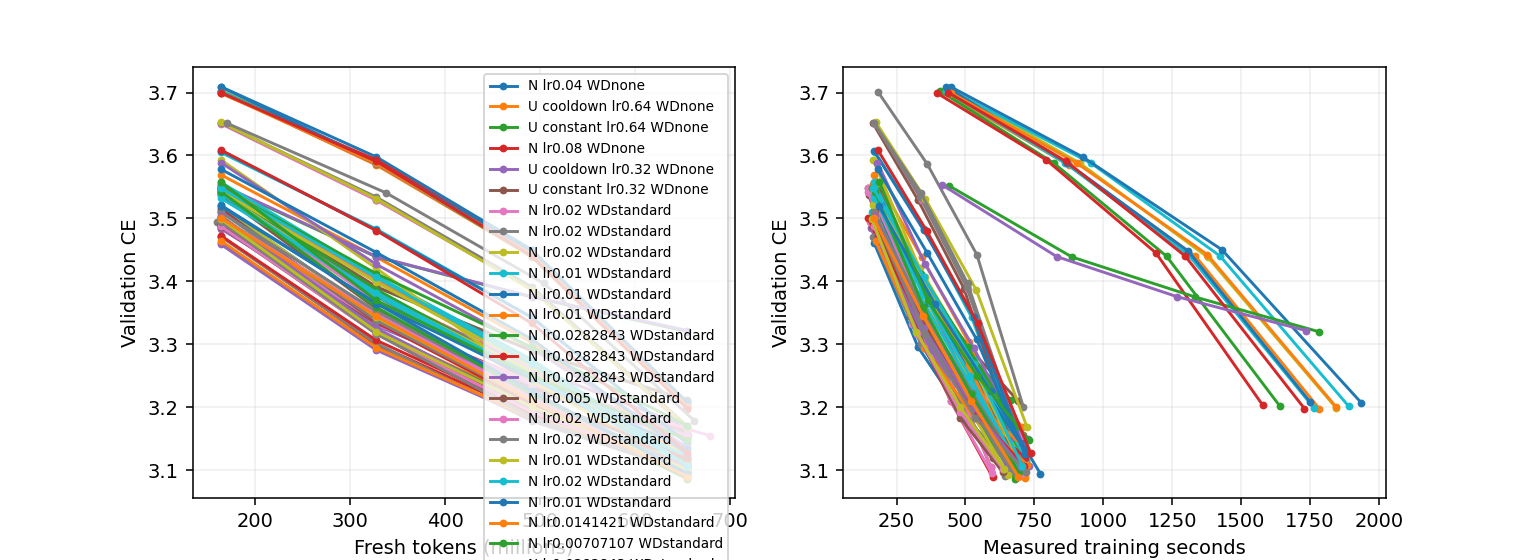
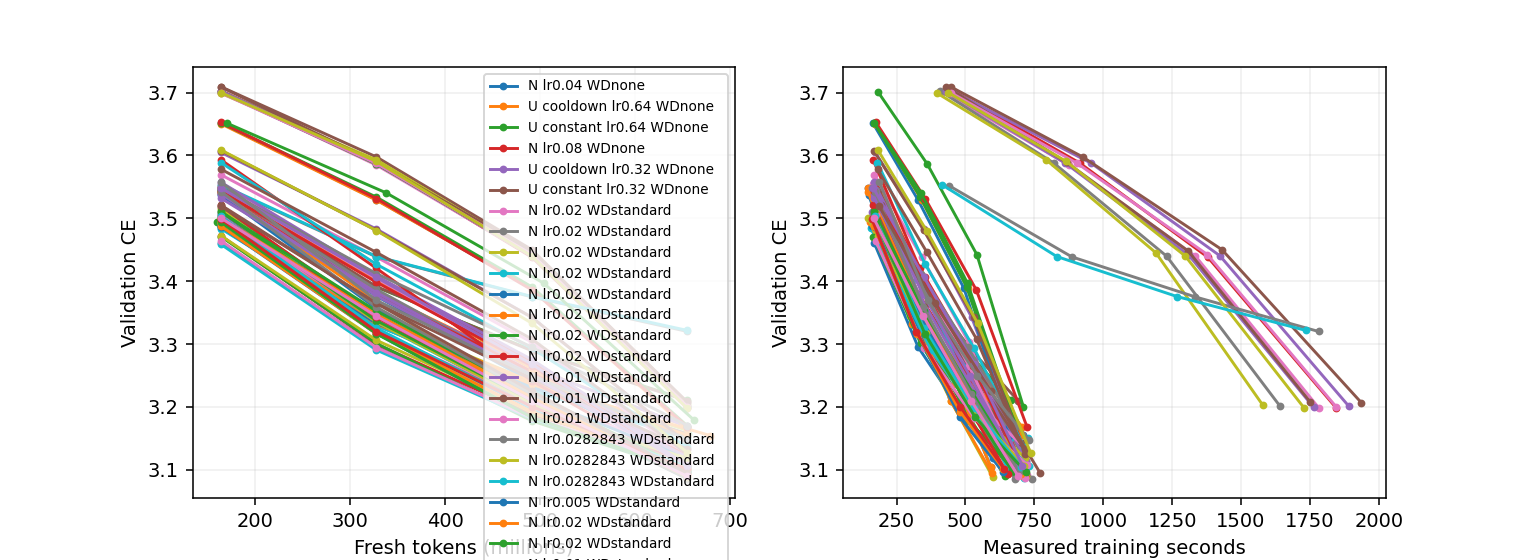
Update live Muon experiment results

diff --git a/research/unnormalized_muon/RESULTS.md b/research/unnormalized_muon/RESULTS.md
@@ -42,6 +42,9 @@ One B300 per job. CE is token cross-entropy (nats); lower is better. Rows with d
 | um-clean-long-1-1-cooldown-lr0p32 | Clean Unnormalized cooldown | 20000 | 0 | 0.32 | 3.168984 | 0.960728 | — | 754.69 |
 | um-clean-long-1-2-constant-lr0p32 | Clean Unnormalized constant | 20000 | 0 | 0.32 | 3.209921 | 0.973169 | — | 765.35 |
 | um-clean-long-2-fw-pilot | Clean FW backtracking momentum Rfactor2 smoothness eager | 2000 | 0 | 0.02 | 4.185817 | 1.268782 | — | 409.98 |
+| um-earlyalloc-confirm-baseline-s70 | Clean Native cooldown fixed_lambda=0.0459375 WD:standard(0) | 20000 | 70 | 0.02 | 3.091088 | 0.937149 | 3.132269 | 784.34 |
+| um-earlyalloc-confirm-baseline-s71 | Clean Native cooldown fixed_lambda=0.0459375 WD:standard(0) | 20000 | 71 | 0.02 | 3.085667 | 0.935485 | 3.126217 | 798.23 |
+| um-earlyalloc-confirm-early-s72 | Clean Native cooldown fixed_lambda=0.0459375 WD:standard(0) | 20000 | 72 | 0.02 | 3.097495 | 0.939100 | 3.138992 | 758.31 |
 | um-earlyalloc-screen-k1 | Clean Native cooldown fixed_lambda=0.0459375 WD:standard(0) | 20000 | 0 | 0.02 | 3.090448 | 0.936955 | — | 783.18 |
 | um-earlyalloc-screen-k1p5 | Clean Native cooldown fixed_lambda=0.0459375 WD:standard(0) | 20000 | 0 | 0.02 | 3.089904 | 0.936790 | — | 701.43 |
 | um-earlyalloc-screen-k2 | Clean Native cooldown fixed_lambda=0.0459375 WD:standard(0) | 20000 | 0 | 0.02 | 3.089891 | 0.936781 | — | 790.30 |
@@ -263,7 +266,7 @@ One B300 per job. CE is token cross-entropy (nats); lower is better. Rows with d
 
 Review of um-fw-diagnostic-001: Compiled training f0 compared against functional candidate losses; vanishing-step mismatch2-4e-5 exceeded tolerance, leading to curvature1e186 and45 skipped steps. Replaced by paired functional reference and candidates; retain all645 measured forwards and GPUcost.
 
-Conservative charged/reserved total: 37.7225 / 50 B300 GPU-hours. Includes prior smoke/failed attempts and current maximum-duration reservations. Six-slot central queue; one B300 per run.
+Conservative charged/reserved total: 39.6542 / 50 B300 GPU-hours. Includes prior smoke/failed attempts and current maximum-duration reservations. Six-slot central queue; one B300 per run.
 
 CLEAN geometry disables row equilibration and NorMuon. Original clean runs use zero matrix decay; new WD runs explicitly label standard or cautious decay and their CLI coefficient. Same five Polar Express steps and Frobenius correction; scale by the per-matrix nonnegative FP32 inner product of the native Nesterov input with the NS/Frobenius direction. Shape scaling occurs once outside the scalar. Legacy rows retain production extras and must be compared separately. Constant schedule changes only matrix LR; auxiliary schedules and momentum remain matched.
 

diff --git a/research/unnormalized_muon/DETAILED_EVAL.md b/research/unnormalized_muon/DETAILED_EVAL.md
@@ -12,6 +12,11 @@ All results use the B300 fork model/data/tokenizer and a fixed tuning-validation
 | normalized WD none 0 | 0.08 | 20000 | 3.112453 | 680.91 | 755.24 |
 | unnormalized cooldown WD none 0 | 0.32 | 20000 | 3.168984 | 681.31 | 754.69 |
 | unnormalized constant WD none 0 | 0.32 | 20000 | 3.209921 | 691.44 | 765.35 |
+| normalized WD standard 0 | 0.02 | 20000 | 3.091088 | 722.24 | 784.34 |
+| normalized WD standard 0 | 0.02 | 20000 | 3.085667 | 740.05 | 798.23 |
+| normalized WD standard 0 | 0.02 | 20000 | 3.089873 | 719.21 | 0.00 |
+| normalized WD standard 0 | 0.02 | 20000 | 3.086768 | 712.18 | 770.47 |
+| normalized WD standard 0 | 0.02 | 20000 | 3.097495 | 698.50 | 758.31 |
 | normalized WD standard 0 | 0.02 | 20000 | 3.090448 | 708.99 | 783.18 |
 | normalized WD standard 0 | 0.02 | 20000 | 3.089904 | 641.82 | 701.43 |
 | normalized WD standard 0 | 0.02 | 20000 | 3.089891 | 715.08 | 790.30 |
@@ -281,6 +286,11 @@ The shifted reciprocal control uses eta_i(t)=eta_i0/(1+lambda eta_i0*t/2) after4
 
 | Run | Mode | Fixed lambda | Updates | Val CE | Extra batch forwards | Process sec |
 |---|---|---:|---:|---:|---:|---:|
+| um-earlyalloc-confirm-baseline-s70 | early_reciprocal native | 0.04593747 | 20000 | 3.091088 | 0 | 784.34 |
+| um-earlyalloc-confirm-baseline-s71 | early_reciprocal native | 0.04593747 | 20000 | 3.085667 | 0 | 798.23 |
+| um-earlyalloc-confirm-baseline-s72 | early_reciprocal native | 0.04593747 | 20000 | 3.089873 | 0 | 0.00 |
+| um-earlyalloc-confirm-early-s71 | early_reciprocal native | 0.04593747 | 20000 | 3.086768 | 0 | 770.47 |
+| um-earlyalloc-confirm-early-s72 | early_reciprocal native | 0.04593747 | 20000 | 3.097495 | 0 | 758.31 |
 | um-earlyalloc-screen-k1 | early_reciprocal native | 0.04593747 | 20000 | 3.090448 | 0 | 783.18 |
 | um-earlyalloc-screen-k1p5 | early_reciprocal native | 0.04593747 | 20000 | 3.089904 | 0 | 701.43 |
 | um-earlyalloc-screen-k2 | early_reciprocal native | 0.04593747 | 20000 | 3.089891 | 0 | 790.30 |
